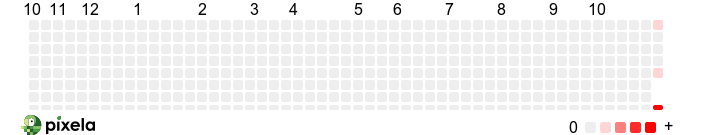
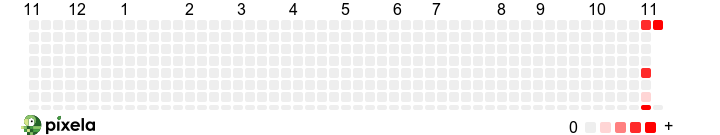
Submit button now updates pixels on pixela
Keeps track of current surah and verse in a current.csv
Need to make the pixela information update everytime submit is pressed.
realign the ui.

diff --git a/pixela_tracking.py b/pixela_tracking.py
@@ -1,6 +1,6 @@
 import os
 import tkinter as tk
-from tkinter import messagebox
+from tkinter import messagebox, ttk
 
 import requests as req
 from cairosvg import svg2png
@@ -13,13 +13,25 @@ BACKGROUND_COLOR = "#D5E8D4"
 PIXELA_ENDPOINT = "https://pixe.la/v1/users"
 
 USERNAME = os.getenv("USERNAME")
-print(USERNAME)
+# print(USERNAME)
 TOKEN = os.getenv("TOKEN")
-print(TOKEN)
+# print(TOKEN)
 
 
 class Tracking:
-    def __init__(self) -> None:
+    def __init__(
+        self, dates: list, all_surah: dict, current_surah, current_verse
+    ) -> None:
+        self.before = ""
+
+        self.all_surah = all_surah
+        self.surahs_list = [key for key in self.all_surah]
+        self.current_surah = current_surah
+        self.current_verse = current_verse
+
+        global history_img
+        self.date_list = dates
+
         self.main_win = tk.Tk()
         self.main_win.title("The Quran Tracker")
         self.main_win.config(padx=20, pady=20, background=BACKGROUND_COLOR)
@@ -29,7 +41,7 @@ class Tracking:
 
         self.title = tk.Label(text="The Quran Tracker", background=BACKGROUND_COLOR)
         self.title.grid(
-            column=0,
+            column=1,
             row=0,
         )
 
@@ -38,27 +50,110 @@ class Tracking:
             background=BACKGROUND_COLOR,
             activebackground=BACKGROUND_COLOR,
         )
-        self.sign_out.grid(column=1, row=0, sticky="")
+        self.sign_out.grid(column=2, row=0, padx=30, sticky="e")
 
         history_img = tk.PhotoImage(file="history.png")
         # self.canvas.create_image(20,20, image=history_img)
         self.img = tk.Label(image=history_img, background=BACKGROUND_COLOR)
-        self.img.grid(column=0, row=1, padx=20, pady=20, columnspan=2)
+        self.img.grid(column=0, row=1, padx=20, pady=20, columnspan=5)
+
+        self.page_text = tk.Label(text="Page:", background=BACKGROUND_COLOR)
+        self.page_text.grid(column=0, row=2)
+        self.page_spinbox = tk.Spinbox(from_=1, to=100, width=3)
+        self.page_spinbox.grid(column=1, row=2)
+
+        self.to_date = tk.Label(text="Update Date:", background=BACKGROUND_COLOR)
+        self.to_date.grid(column=0, row=3)
+        self.date = ttk.Combobox(values=self.date_list, width=9)
+        self.date.grid(column=1, row=3)
+
+        self.submit_btn = tk.Button(
+            text="Submit",
+            background=BACKGROUND_COLOR,
+            activebackground=BACKGROUND_COLOR,
+            command=self.submit_pressed,
+        )
+        self.submit_btn.grid(column=0, row=4, columnspan=2)
+
+        self.today_read = tk.Label(text=f"Today, 1 Page", background=BACKGROUND_COLOR)
+        self.total_read = tk.Label(text="Total: 9 Page", background=BACKGROUND_COLOR)
+        self.max_read = tk.Label(text="Max: 4 Page", background=BACKGROUND_COLOR)
+        self.min_read = tk.Label(text="Min: 1 Page", background=BACKGROUND_COLOR)
+        self.avg_read = tk.Label(text="Avg: 3 Page", background=BACKGROUND_COLOR)
+        self.total_days = tk.Label(text="Total Days: 3", background=BACKGROUND_COLOR)
+
+        self.today_read.grid(column=2, row=2)
+        self.total_read.grid(column=2, row=3)
+        self.max_read.grid(column=2, row=4)
+        self.min_read.grid(column=2, row=5)
+        self.avg_read.grid(column=2, row=6)
+        self.total_days.grid(column=2, row=7)
+
+        self.currently_on_surah_text = tk.Label(
+            text="Currently On Surah:", background=BACKGROUND_COLOR
+        )
+        self.currently_on_surah_cb = ttk.Combobox(values=self.surahs_list, width=12)
+        self.currently_on_surah_cb.set(current_surah)
+        self.currently_on_surah_cb.bind("<<ComboboxSelected>>", self.refresh_verse)
+        self.currently_on_surah_text.grid(column=3, row=2)
+        self.currently_on_surah_cb.grid(column=4, row=2)
+
+        self.currently_on_verse_text = tk.Label(
+            text="On Verse:", background=BACKGROUND_COLOR
+        )
+        self.currently_on_verse_spinbox = tk.Spinbox(
+            from_=1, to=self.all_surah[self.currently_on_surah_cb.get()], width=3
+        )
+        self.currently_on_verse_text.grid(column=3, row=3)
+        self.currently_on_verse_spinbox.grid(column=4, row=3)
+        # self.refresh_verse()
 
         self.main_win.mainloop()
 
+    def refresh_verse(self, event):
+        print(f"inside refresh verse:{self.before},{self.currently_on_surah_cb.get()}")
+        if self.before != self.currently_on_surah_cb.get():
+            print(
+                f"inside refresh verse ififif:{self.before},{self.currently_on_surah_cb.get()}"
+            )
+            self.before = self.currently_on_surah_cb.get()
+            self.currently_on_verse_spinbox.config(
+                to=self.all_surah[self.currently_on_surah_cb.get()]
+            )
+
+    def submit_pressed(self):
+        page = self.page_spinbox.get()
+        date = self.date.get().replace("-", "")
+
+        header = {"X-USER-TOKEN": TOKEN}
+
+        body = {"quantity": page}
+        print(body)
+
+        # print(f"{date}")
+
+        update_endpoint = f"{PIXELA_ENDPOINT}/{USERNAME}/graphs/graph1/{date}"
+
+        update_res = req.put(url=update_endpoint, headers=header, json=body)
+        update_res.raise_for_status()  # TODO Handle 503 Server Error
+        print(update_res.text)
+
+        update_history()
+        self.refresh_img()
+
+    def refresh_img(self):
+        global history_img
+        history_img = tk.PhotoImage(file="history.png")
+        self.img.config(image=history_img, background=BACKGROUND_COLOR)
+
 
 def update_history():
+    # print("HERE!")
     svg_endpoint = f"{PIXELA_ENDPOINT}/{USERNAME}/graphs/graph1"  # TODO This needs changing before finishing up.
 
     parameters = {"mode": "short"}
 
     res = req.get(url=svg_endpoint)
+    # print(res.url)
     svg_code = res.text
     svg2png(bytestring=svg_code, write_to="history.png")
-
-
-update_history()
-
-
-a = Tracking()

diff --git a/test.py b/test.py
@@ -1,36 +1,44 @@
-# import webbrowser
+# # import webbrowser
 
-# webbrowser.open("https://pixe.la/@raf")
+# # webbrowser.open("https://pixe.la/@raf")
 
-# from selenium import webdriver
-# browser = webdriver.Firefox()
-# browser.get("https://pixe.la/@raf")
+# # from selenium import webdriver
+# # browser = webdriver.Firefox()
+# # browser.get("https://pixe.la/@raf")
 
-import os
-import tkinter as tk
-from tkinter import messagebox
-from cairosvg import svg2png
-import requests as req
-from dotenv import load_dotenv
+# import os
+# import tkinter as tk
+# from tkinter import messagebox
+# from cairosvg import svg2png
+# import requests as req
+# from dotenv import load_dotenv
 
-load_dotenv()
+# load_dotenv()
 
-BACKGROUND_COLOR = "#D5E8D4"
-PIXELA_ENDPOINT = "https://pixe.la/v1/users"
+# BACKGROUND_COLOR = "#D5E8D4"
+# PIXELA_ENDPOINT = "https://pixe.la/v1/users"
 
-USERNAME = os.getenv("USERNAME")
-print(USERNAME)
-TOKEN = os.getenv("TOKEN")
-print(TOKEN)
+# USERNAME = os.getenv("USERNAME")
+# print(USERNAME)
+# TOKEN = os.getenv("TOKEN")
+# print(TOKEN)
 
-svg_endpoint = f"{PIXELA_ENDPOINT}/{USERNAME}/graphs/graph1"
+# svg_endpoint = f"{PIXELA_ENDPOINT}/{USERNAME}/graphs/graph1"
 
-parameters = {"mode": "short"}
+# parameters = {"mode": "short"}
 
-res = req.get(url=svg_endpoint)
+# res = req.get(url=svg_endpoint)
 
-print(res.text)
-svg_code = res.text
-# for line in res.iter_lines():
-#     print(line)
-svg2png(bytestring=svg_code, write_to="history.png")
+# print(res.text)
+# svg_code = res.text
+# # for line in res.iter_lines():
+# #     print(line)
+# svg2png(bytestring=svg_code, write_to="history.png")
+
+import pandas as pd
+
+all_surahs = (
+        pd.read_csv("data/All_Surahs.csv").set_index("Surahs")["Ayahs"]
+    )
+
+print(all_surahs)

diff --git a/main.py b/main.py
@@ -1,0 +1,32 @@
+from datetime import datetime, timedelta
+
+import pandas as pd
+
+import pixela_tracking as pt
+
+
+def main():
+    seven_dates = [(datetime.now().date() - timedelta(i)) for i in range(7)]
+    # print(seven_dates)
+
+    all_surahs = (
+        pd.read_csv("data/All_Surahs.csv").set_index("Surahs")["Ayahs"].to_dict()
+    )
+
+    v = [key for key in all_surahs]
+    # print(type(all_surahs.keys()))
+    # print(v)
+
+    current = pd.read_csv("data/current.csv", header=None)
+    surah = current[0].values[0]
+    verse = current[1].values[0]
+    # #print(current)
+    # print(surah)
+    # print(verse)
+
+    pt.update_history()
+    a = pt.Tracking(dates=seven_dates, all_surah=all_surahs, current_surah=surah, current_verse=verse)
+
+
+if __name__ == "__main__":
+    main()
